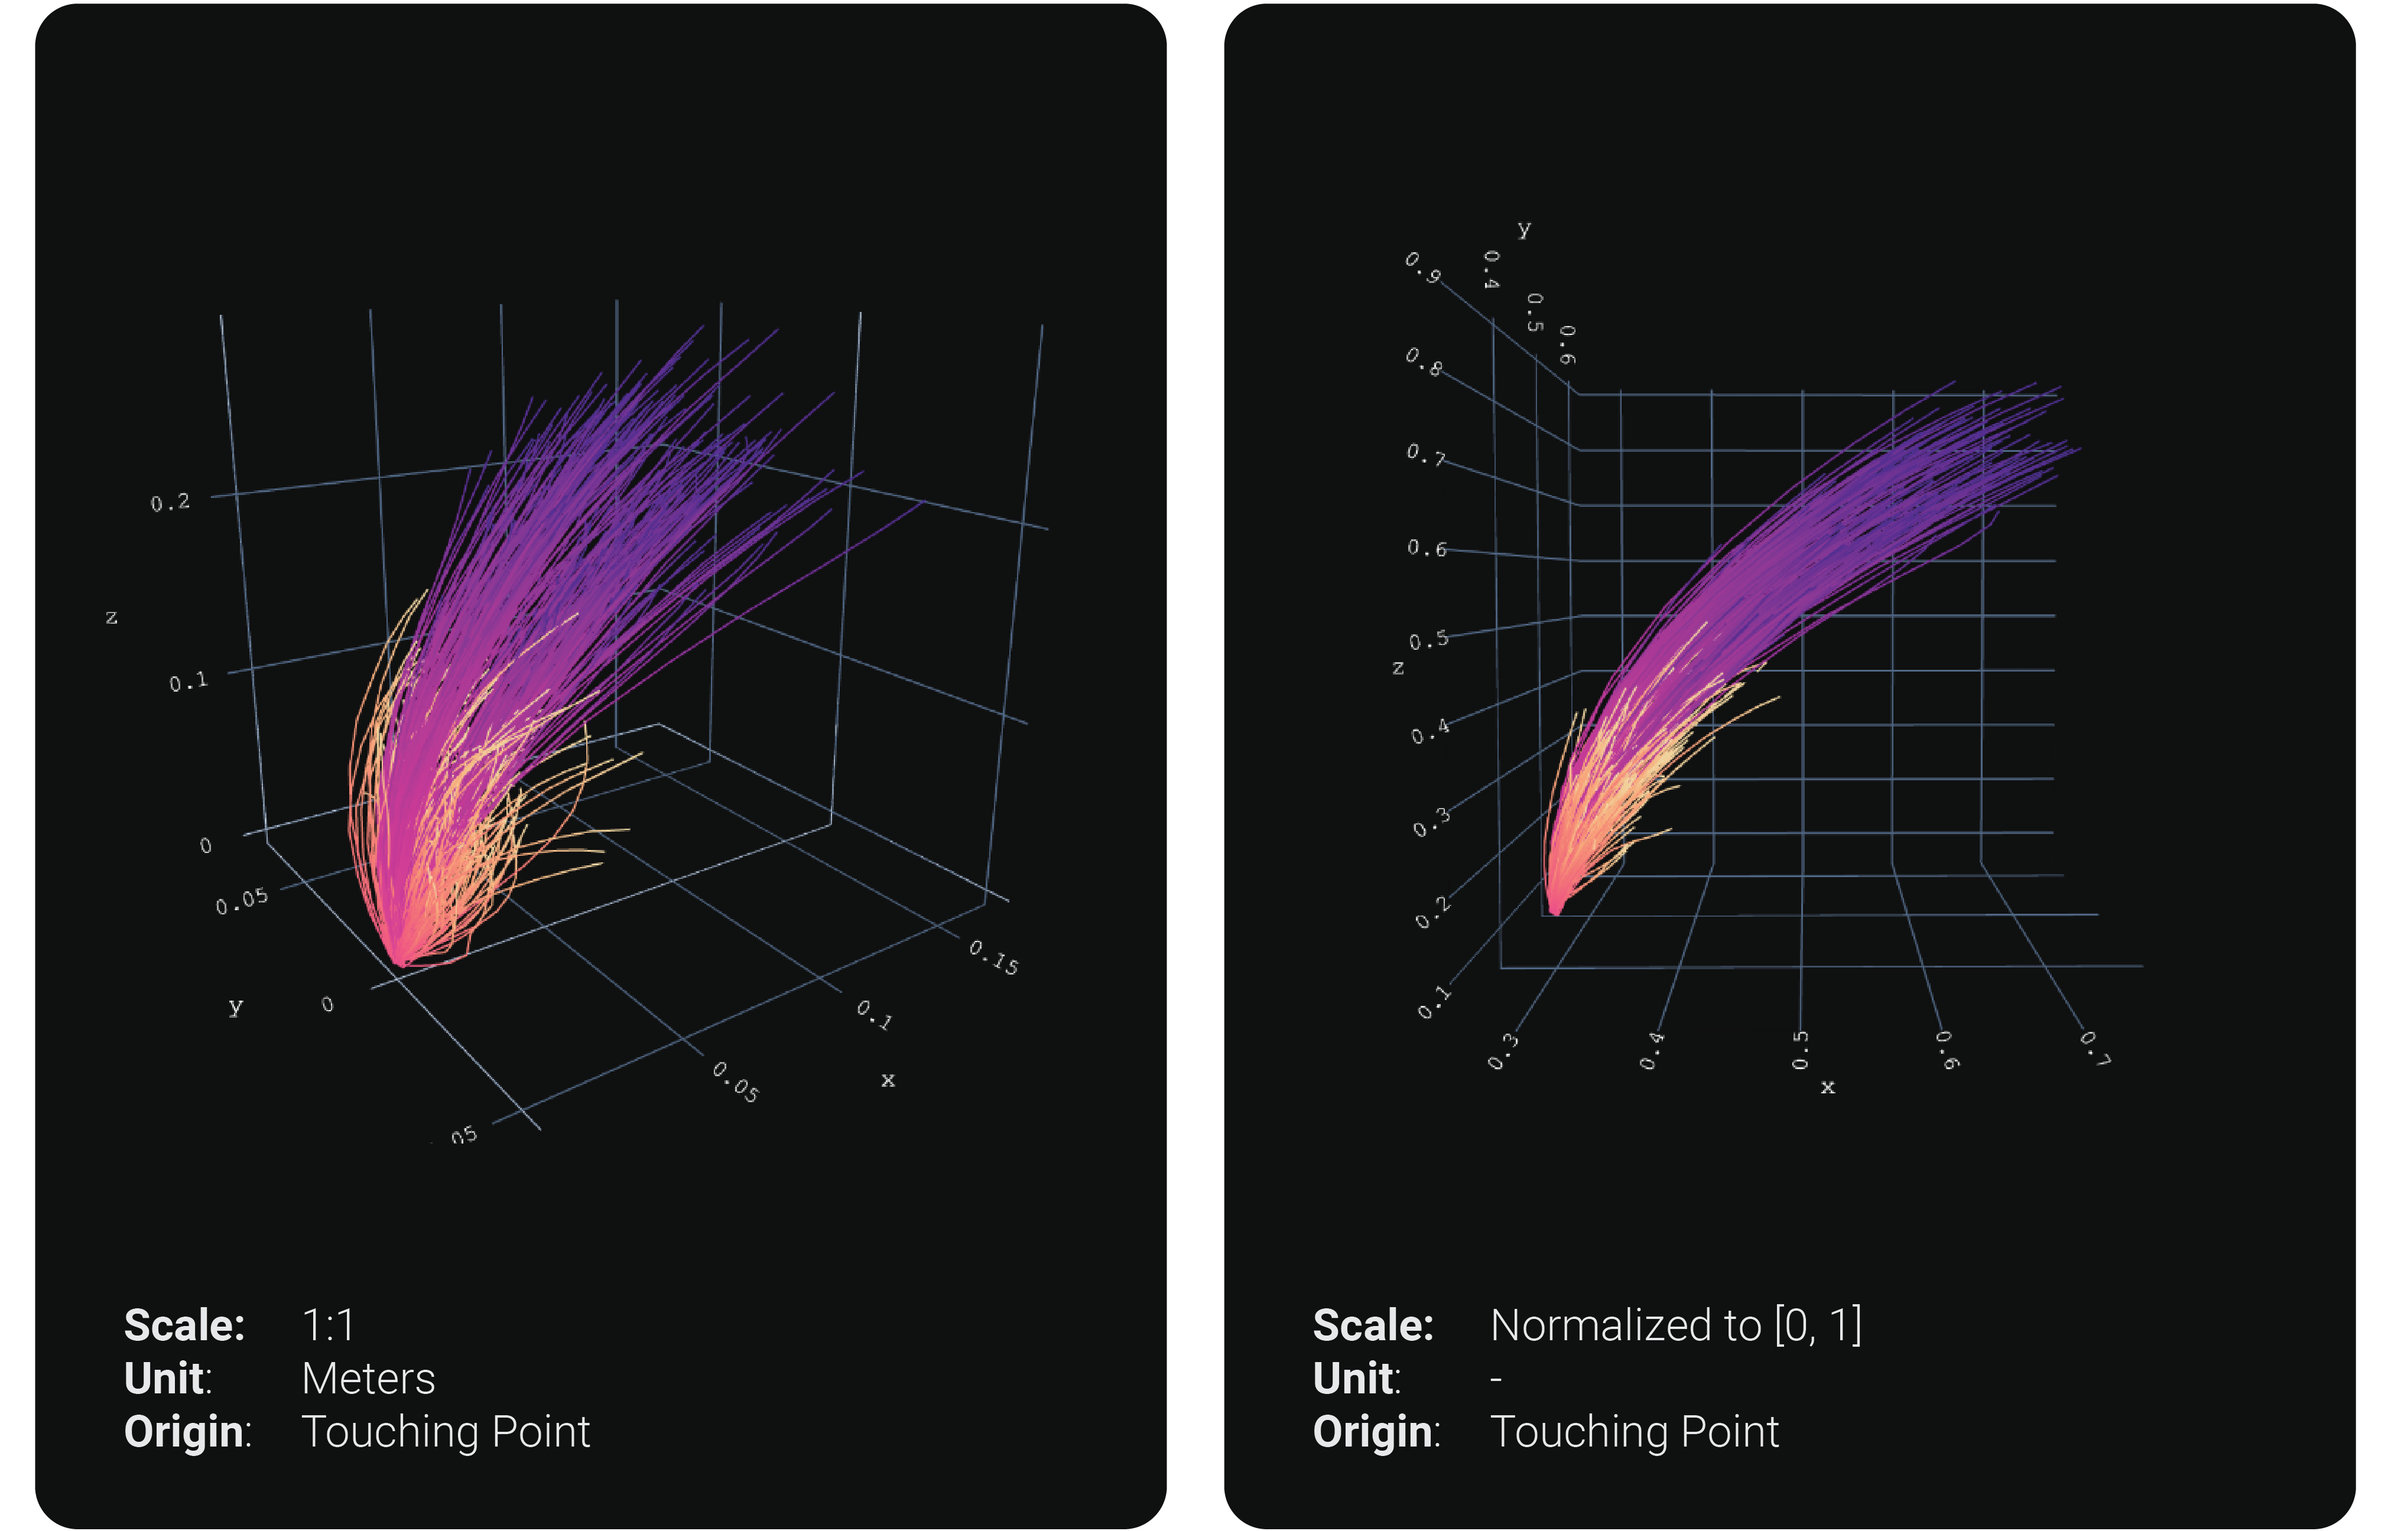
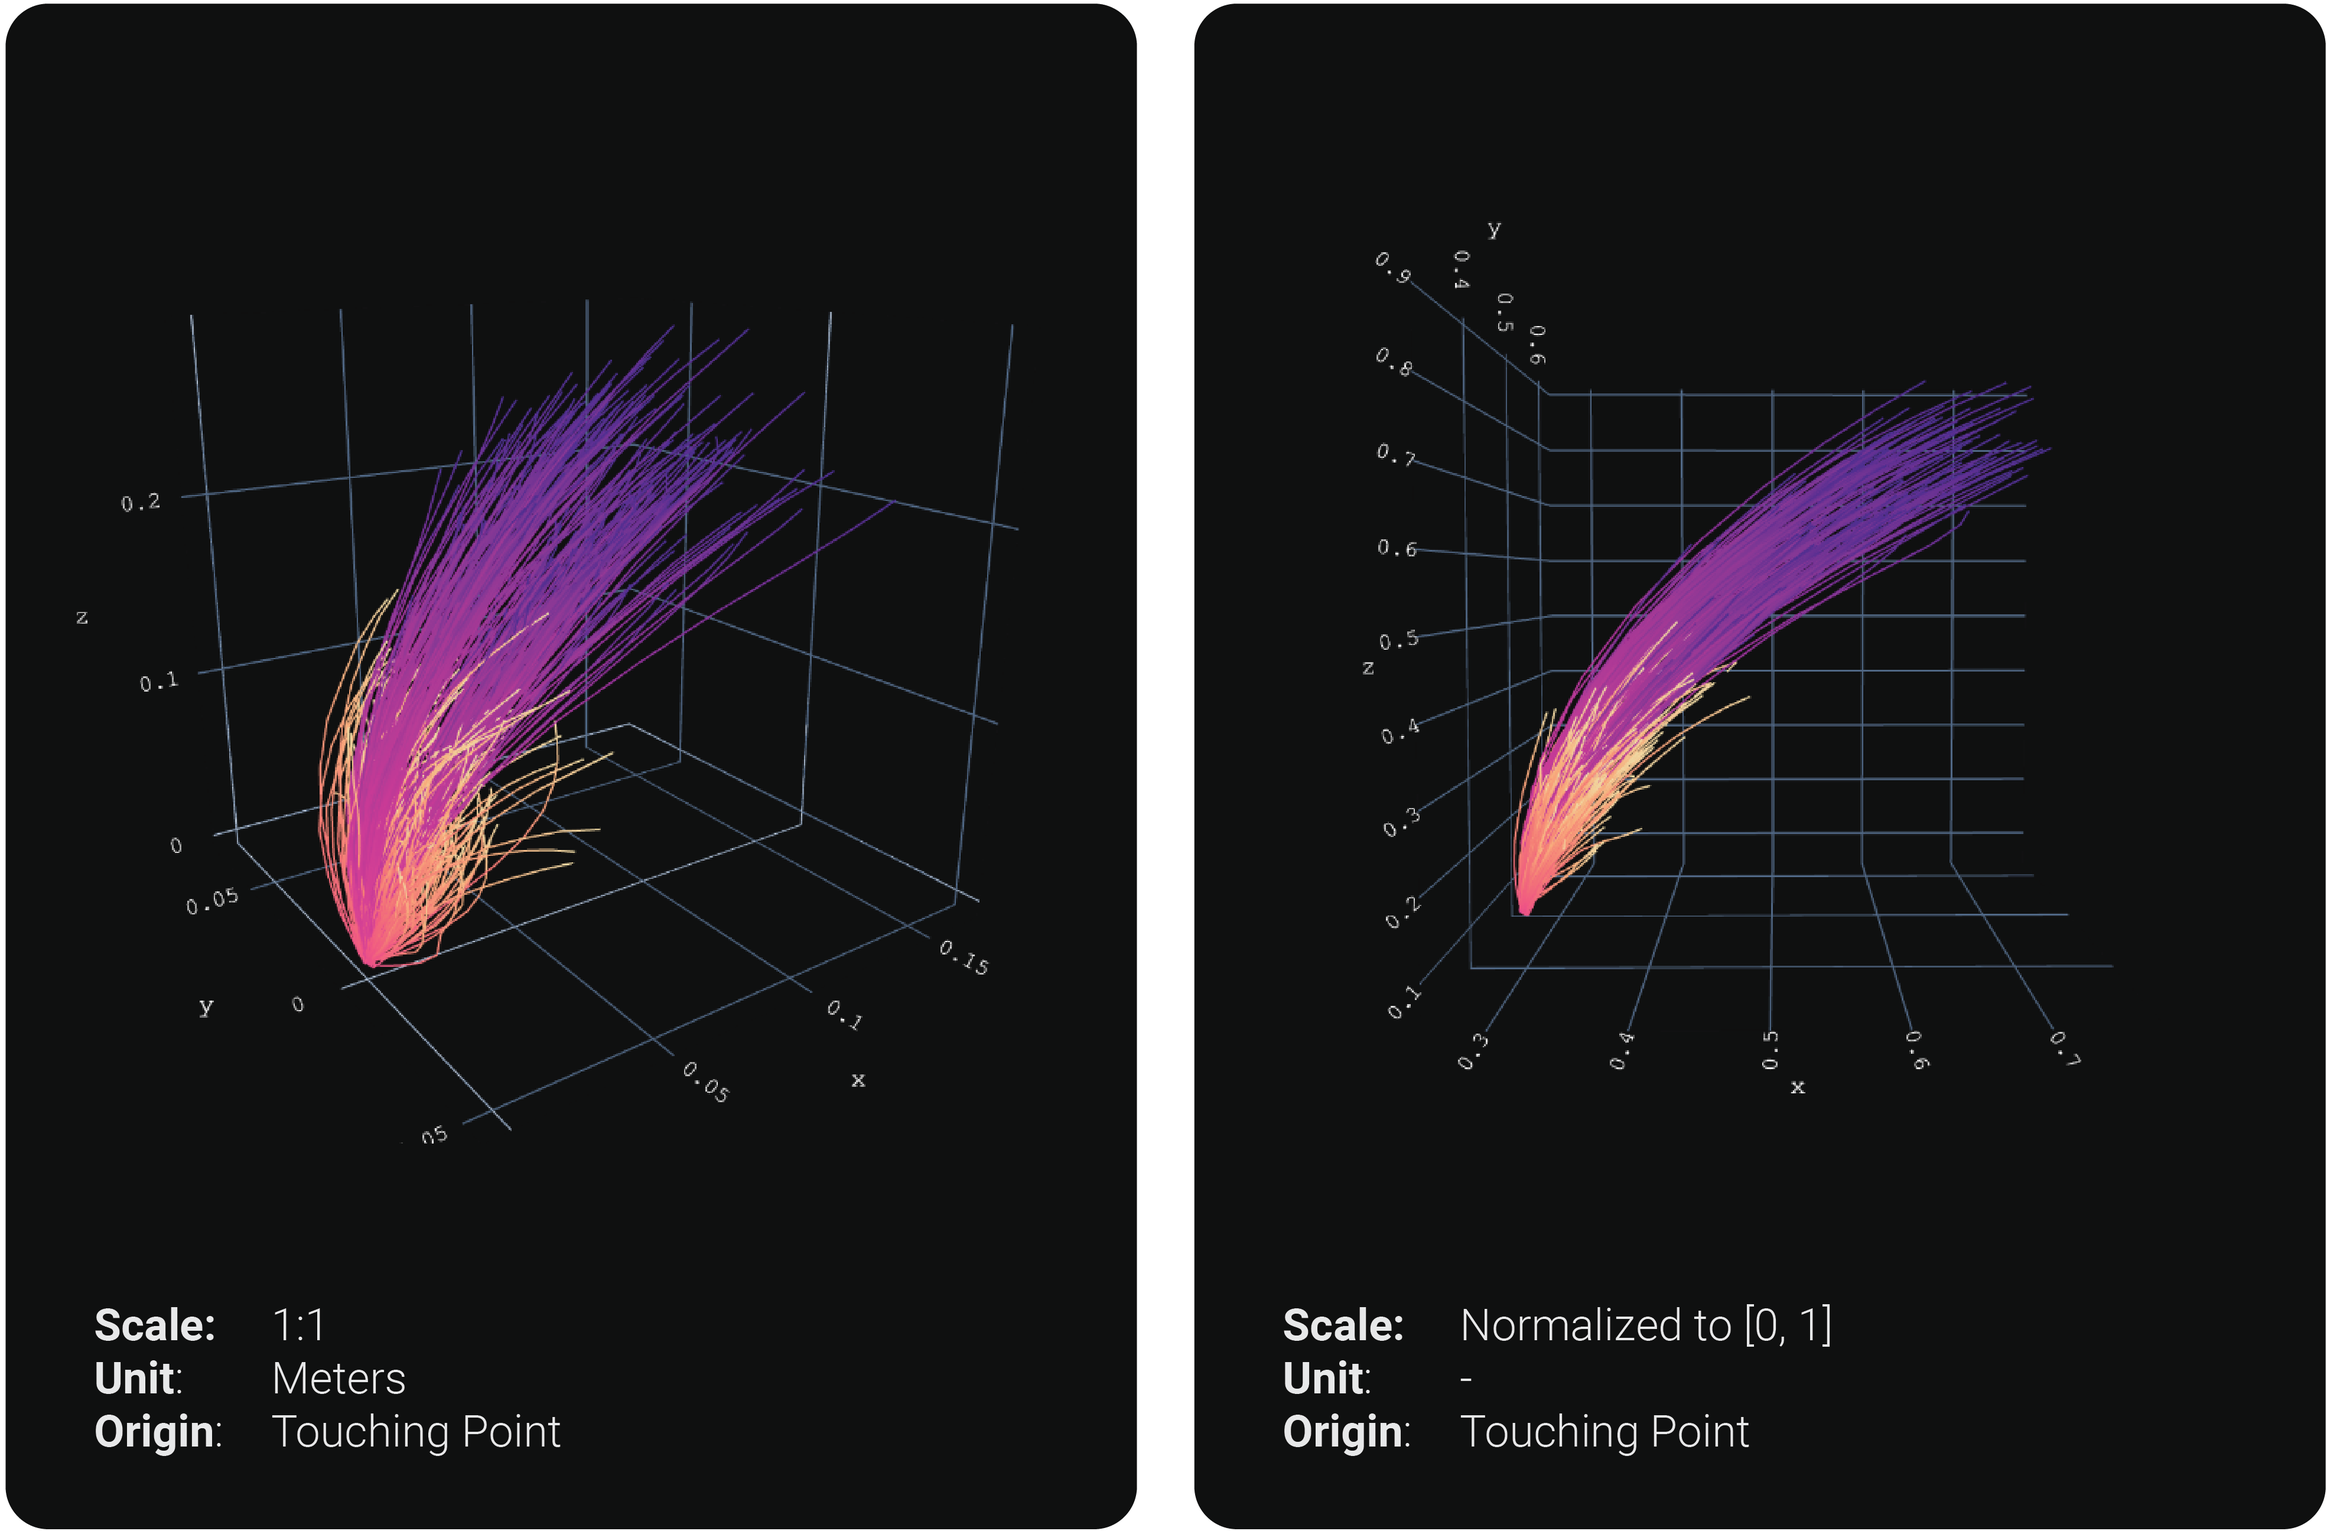
editing images

diff --git a/README.md b/README.md
@@ -47,8 +47,8 @@ $$X_t = [x_0, x_1, ..., x_{19}]$$
 $$x_i = [px_i, py_i, pz_i, v_xx_i, v_xy_i, v_xz_i, v_yx_i, v_yy_i, v_yz_i]$$
 
 <p align="center">
-    <img src="./media/signal_processing.png"width="60%"/>
-    <img src="./media/motion_breakdown.png" width="60%"/>
+    <img src="./media/signal_processing.png"width="60%" style="border-radius:10px;"/>
+    <img src="./media/motion_breakdown.png" width="60%" style="border-radius:10px;"/>
 </p>
 
 
@@ -56,7 +56,7 @@ $$x_i = [px_i, py_i, pz_i, v_xx_i, v_xy_i, v_xz_i, v_yx_i, v_yy_i, v_yz_i]$$
     <img src="./media/motion_raw_quick.gif" width="60%" style="border-radius:10px;"/>
 </p>
 <p align="center">
-    <img src="./media/motions_sampler_of_250.png" width="41%"/>
+    <img src="./media/motions_sampler_of_250.png" width="60%"/>
 </p>
 
 ## ML Models
